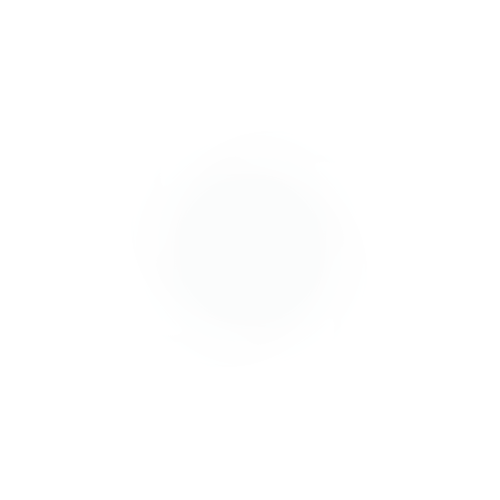
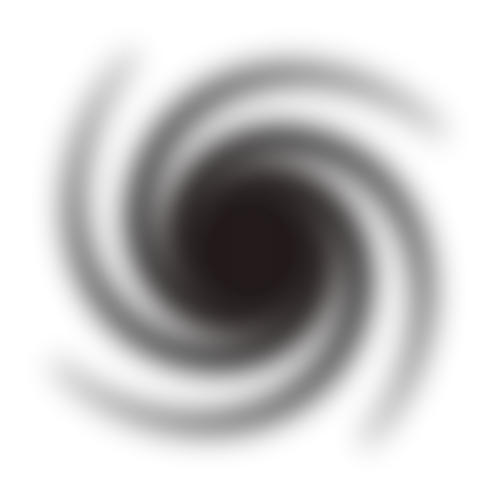
Blackhole performance improved, texture changed

diff --git a/Planets/View/GameView.cs b/Planets/View/GameView.cs
@@ -29,8 +29,7 @@ namespace Planets.View
         /// Buffer bitmap
         /// </summary>
         private Bitmap b = new Bitmap(Properties.Resources.LogoFinal_Inv, new Size(1920, 1080));
-        private Bitmap h1 = new Bitmap(Properties.Resources.Hole1, new Size(10, 10));
-        private Bitmap h2 = new Bitmap(Properties.Resources.Hole2, new Size(10, 10));
+        private Bitmap h1 = new Bitmap(Properties.Resources.Hole1, new Size(100, 100));
         private Bitmap cursor = new Bitmap(Properties.Resources.Cursors_Red);
         private Brush b2 = new TextureBrush(Properties.Resources.LogoFinal);
         private Brush b3 = new SolidBrush(Color.Magenta);
@@ -104,10 +103,6 @@ namespace Planets.View
                         angle += 1;
                         Bitmap test = RotateImg(h1, angle);
                         g.DrawImage(test, (float)obj.Location.X - radius, (float)obj.Location.Y - radius, length, length);
-
-                        angle2 -= 1;
-                        Bitmap test2 = RotateImg(h2, angle2);
-                        g.DrawImage(test2, (float)obj.Location.X - radius, (float)obj.Location.Y - radius, length, length);
 
                         //g.FillEllipse(b3, (float)obj.Location.X - radius, (float)obj.Location.Y - radius, length,length);
                     }

diff --git a/Planets/Properties/Resources.Designer.cs b/Planets/Properties/Resources.Designer.cs
@@ -93,16 +93,6 @@ namespace Planets.Properties {
         /// <summary>
         ///   Looks up a localized resource of type System.Drawing.Bitmap.
         /// </summary>
-        internal static System.Drawing.Bitmap Hole2 {
-            get {
-                object obj = ResourceManager.GetObject("Hole2", resourceCulture);
-                return ((System.Drawing.Bitmap)(obj));
-            }
-        }
-        
-        /// <summary>
-        ///   Looks up a localized resource of type System.Drawing.Bitmap.
-        /// </summary>
         internal static System.Drawing.Bitmap LogoFinal {
             get {
                 object obj = ResourceManager.GetObject("LogoFinal", resourceCulture);
